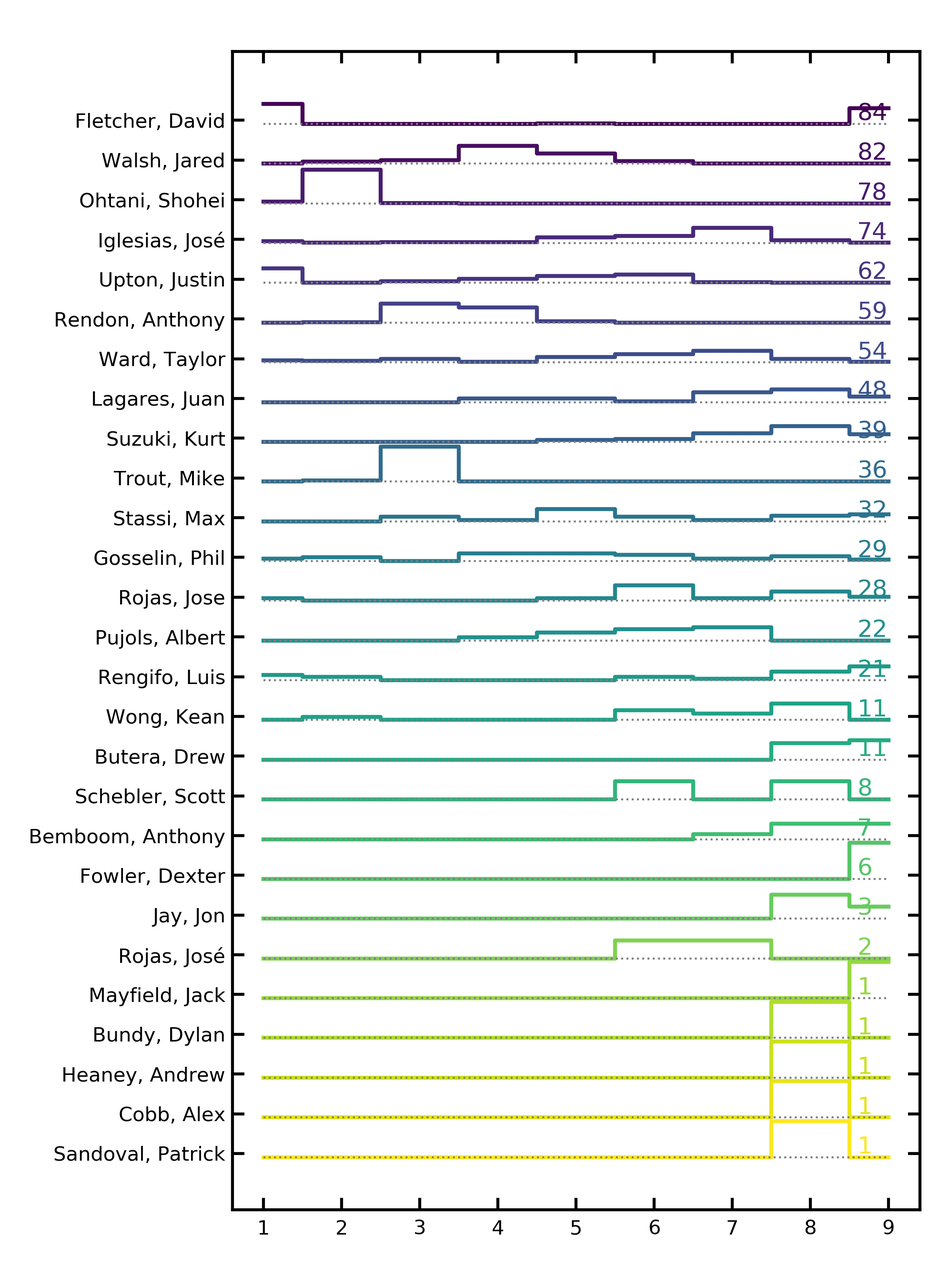
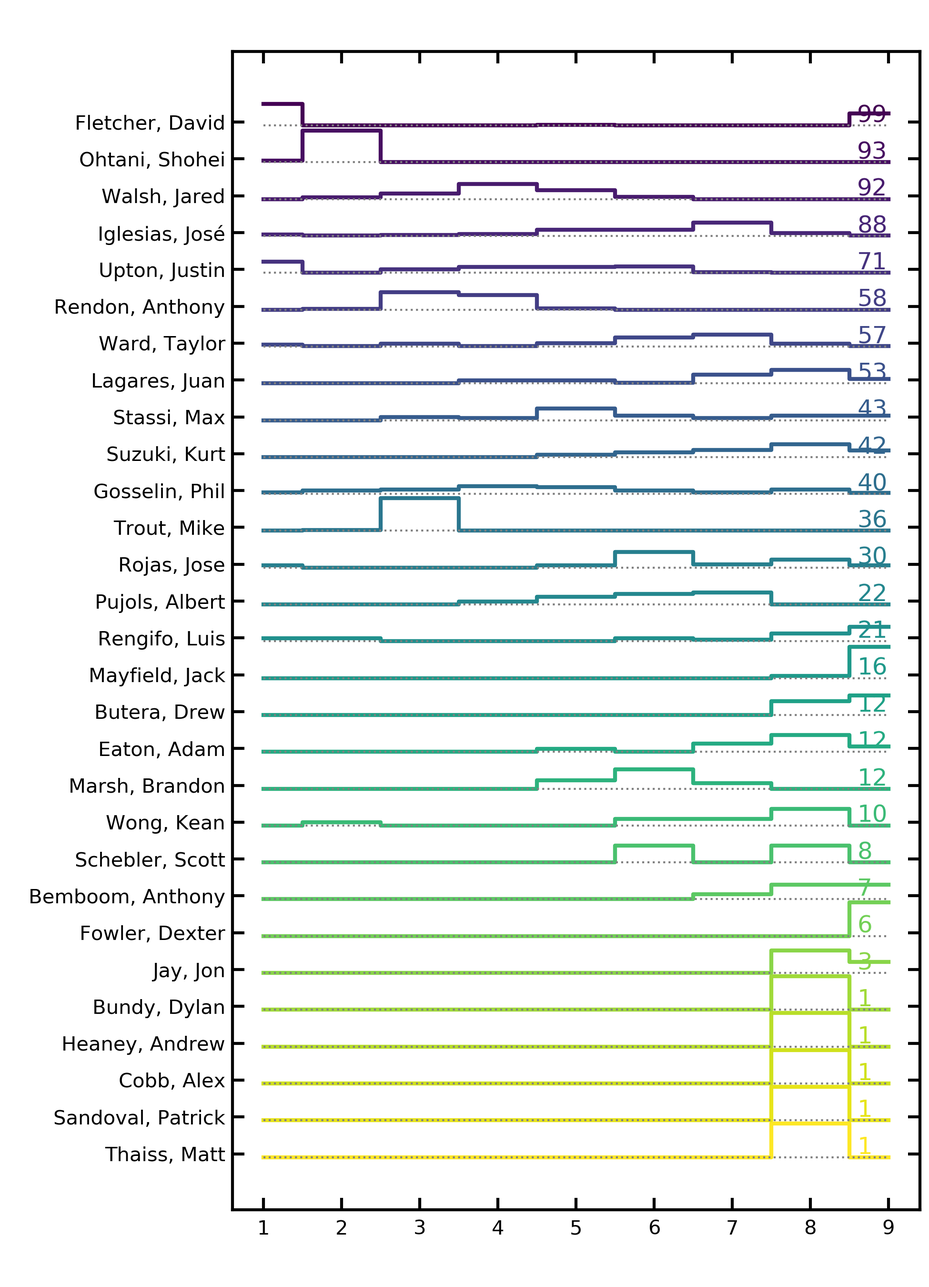
upgrades for the trade deadline

Changed region(s): [[0.2769, 0.0622, 0.9846, 0.8711], [0.0308, 0.0933, 0.2462, 0.9022]]

diff --git a/Lineups/lineup2021.html b/Lineups/lineup2021.html
@@ -23,39 +23,39 @@ document.querySelectorAll('th').forEach(th => th.addEventListener('click', (() =
 
   <body>
   <h2>Batting Order Breakdown</h2>
-  <p>For each team, what is the "typical" 2021 lineup?</p>
+  <p>For each team, what is the "typical" 2021 lineup?</p><p style="color:#d63838">Red colors mean the player is not on the team anymore.</p><p style="color:#696969">Grey colors mean the player has appeared in fewer than 25 games.</p>
 <table id="customers">
 <tr><th>Team</th><th>1st</th><th>2nd</th><th>3rd</th><th>4th</th><th>5th</th><th>6th</th><th>7th</th><th>8th</th><th>9th</th><th>Similarity</th><th>First Appeared</th></tr>
-<tr><td><a href="figures/2021LAAorder.png">LAA</a></td><td>Fletcher, David</td><td>Ohtani, Shohei</td><td>Trout, Mike</td><td>Rendon, Anthony</td><td>Walsh, Jared</td><td>Upton, Justin</td><td>Iglesias, José</td><td>Suzuki, Kurt</td><td>Fowler, Dexter</td><td>2.45</td><td>3</td></tr>
-<tr><td><a href="figures/2021HOUorder.png">HOU</a></td><td>Altuve, Jose</td><td>Brantley, Michael</td><td>Bregman, Alex</td><td>Alvarez, Yordan</td><td>Gurriel, Yuli</td><td>Correa, Carlos</td><td>Tucker, Kyle</td><td>Straw, Myles</td><td>Maldonado, Martín</td><td>3.86</td><td>8</td></tr>
-<tr><td><a href="figures/2021OAKorder.png">OAK</a></td><td>Canha, Mark</td><td>Laureano, Ramón</td><td>Olson, Matt</td><td>Murphy, Sean</td><td>Chapman, Matt</td><td>Lowrie, Jed</td><td>Piscotty, Stephen</td><td>Andrus, Elvis</td><td>Kemp, Tony</td><td>2.32</td><td>34</td></tr>
-<tr><td><a href="figures/2021TORorder.png">TOR</a></td><td>Semien, Marcus</td><td>Bichette, Bo</td><td>Guerrero Jr., Vladimir</td><td>Hernández, Teoscar</td><td>Grichuk, Randal</td><td>Biggio, Cavan</td><td>Gurriel Jr., Lourdes</td><td>Panik, Joe</td><td>McGuire, Reese</td><td>4.23</td><td>29</td></tr>
-<tr><td><a href="figures/2021ATLorder.png">ATL</a></td><td>Acuña Jr., Ronald</td><td>Freeman, Freddie</td><td>Ozuna, Marcell</td><td>Albies, Ozzie</td><td>Riley, Austin</td><td>Swanson, Dansby</td><td>Contreras, William</td><td>Heredia, Guillermo</td><td>Morton, Charlie</td><td>3.34</td><td>44</td></tr>
-<tr><td><a href="figures/2021MILorder.png">MIL</a></td><td>Wong, Kolten</td><td>Vogelbach, Daniel</td><td>Yelich, Christian</td><td>García, Avisaíl</td><td>Narváez, Omar</td><td>Adames, Willy</td><td>Urías, Luis</td><td>Bradley Jr., Jackie</td><td>Peralta, Freddy</td><td>1.66</td><td>76</td></tr>
-<tr><td><a href="figures/2021STLorder.png">STL</a></td><td>Edman, Tommy</td><td>Carlson, Dylan</td><td>Goldschmidt, Paul</td><td>Arenado, Nolan</td><td>Molina, Yadier</td><td>O'Neill, Tyler</td><td>Sosa, Edmundo</td><td>Williams, Justin</td><td>Wainwright, Adam</td><td>3.23</td><td>54</td></tr>
-<tr><td><a href="figures/2021CHCorder.png">CHC</a></td><td>Pederson, Joc</td><td>Bryant, Kris</td><td>Báez, Javier</td><td>Rizzo, Anthony</td><td>Contreras, Willson</td><td>Happ, Ian</td><td>Heyward, Jason</td><td>Alcántara, Sergio</td><td>Hendricks, Kyle</td><td>1.99</td><td>65</td></tr>
-<tr><td><a href="figures/2021ARIorder.png">ARI</a></td><td>Rojas, Josh</td><td>Marte, Ketel</td><td>Escobar, Eduardo</td><td>Peralta, David</td><td>Smith, Pavin</td><td>Reddick, Josh</td><td>Ahmed, Nick</td><td>Vogt, Stephen</td><td>Kelly, Merrill</td><td>1.89</td><td>59</td></tr>
-<tr><td><a href="figures/2021LADorder.png">LAD</a></td><td>Betts, Mookie</td><td>Seager, Corey</td><td>Turner, Justin</td><td>Bellinger, Cody</td><td>Muncy, Max</td><td>Taylor, Chris</td><td>Lux, Gavin</td><td>Barnes, Austin</td><td>Kershaw, Clayton</td><td>2.68</td><td>1</td></tr>
-<tr><td><a href="figures/2021SForder.png">SF</a></td><td>Wade Jr, LaMonte</td><td>Yastrzemski, Mike</td><td>Posey, Buster</td><td>Belt, Brandon</td><td>Crawford, Brandon</td><td>Flores, Wilmer</td><td>Duggar, Steven</td><td>Vosler, Jason</td><td>Cueto, Johnny</td><td>1.38</td><td>71</td></tr>
-<tr><td><a href="figures/2021CLEorder.png">CLE</a></td><td>Hernandez, Cesar</td><td>Rosario, Amed</td><td>Ramírez, José</td><td>Rosario, Eddie</td><td>Reyes, Franmil</td><td>Naylor, Josh</td><td>Bauers, Jake</td><td>Hedges, Austin</td><td>Giménez, Andrés</td><td>2.94</td><td>33</td></tr>
-<tr><td><a href="figures/2021SEAorder.png">SEA</a></td><td>Crawford, J.P.</td><td>Haniger, Mitch</td><td>Seager, Kyle</td><td>France, Ty</td><td>Fraley, Jake</td><td>Moore, Dylan</td><td>Bauers, Jake</td><td>Murphy, Tom</td><td>Trammell, Taylor</td><td>2.23</td><td>66</td></tr>
-<tr><td><a href="figures/2021MIAorder.png">MIA</a></td><td>Chisholm Jr., Jazz</td><td>Marte, Starling</td><td>Aguilar, Jesús</td><td>Duvall, Adam</td><td>Rojas, Miguel</td><td>Sánchez, Jesús</td><td>Alfaro, Jorge</td><td>Berti, Jon</td><td>Rogers, Trevor</td><td>2.15</td><td>74</td></tr>
-<tr><td><a href="figures/2021NYMorder.png">NYM</a></td><td>McNeil, Jeff</td><td>Lindor, Francisco</td><td>Conforto, Michael</td><td>Alonso, Pete</td><td>Smith, Dominic</td><td>Pillar, Kevin</td><td>Villar, Jonathan</td><td>McCann, James</td><td>Walker, Taijuan</td><td>2.46</td><td>28</td></tr>
-<tr><td><a href="figures/2021WSHorder.png">WSH</a></td><td>Turner, Trea</td><td>Harrison, Josh</td><td>Soto, Juan</td><td>Bell, Josh</td><td>Schwarber, Kyle</td><td>Castro, Starlin</td><td>Avila, Alex</td><td>Robles, Victor</td><td>Ross, Joe</td><td>2.1</td><td>56</td></tr>
-<tr><td><a href="figures/2021BALorder.png">BAL</a></td><td>Mullins, Cedric</td><td>Mancini, Trey</td><td>Santander, Anthony</td><td>Mountcastle, Ryan</td><td>Hays, Austin</td><td>Galvis, Freddy</td><td>Franco, Maikel</td><td>Severino, Pedro</td><td>Valaika, Pat</td><td>2.45</td><td>62</td></tr>
-<tr><td><a href="figures/2021SDorder.png">SD</a></td><td>Pham, Tommy</td><td>Machado, Manny</td><td>Cronenworth, Jake</td><td>Tatis Jr., Fernando</td><td>Hosmer, Eric</td><td>Myers, Wil</td><td>Profar, Jurickson</td><td>Caratini, Victor</td><td>Paddack, Chris</td><td>2.22</td><td>56</td></tr>
-<tr><td><a href="figures/2021PHIorder.png">PHI</a></td><td>McCutchen, Andrew</td><td>Hoskins, Rhys</td><td>Harper, Bryce</td><td>Realmuto, J.T.</td><td>Bohm, Alec</td><td>Gregorius, Didi</td><td>Segura, Jean</td><td>Quinn, Roman</td><td>Wheeler, Zack</td><td>1.99</td><td>2</td></tr>
-<tr><td><a href="figures/2021PITorder.png">PIT</a></td><td>Frazier, Adam</td><td>Hayes, Ke'Bryan</td><td>Reynolds, Bryan</td><td>Moran, Colin</td><td>Stallings, Jacob</td><td>Polanco, Gregory</td><td>Newman, Kevin</td><td>Tom, Ka'ai</td><td>Kuhl, Chad</td><td>2.76</td><td>69</td></tr>
-<tr><td><a href="figures/2021TEXorder.png">TEX</a></td><td>Kiner-Falefa, Isiah</td><td>Solak, Nick</td><td>Lowe, Nate</td><td>Gallo, Joey</td><td>García, Adolis</td><td>Davis, Khris</td><td>Dahl, David</td><td>Culberson, Charlie</td><td>Trevino, Jose</td><td>1.94</td><td>42</td></tr>
-<tr><td><a href="figures/2021TBorder.png">TB</a></td><td>Arozarena, Randy</td><td>Margot, Manuel</td><td>Meadows, Austin</td><td>Díaz, Yandy</td><td>Brosseau, Mike</td><td>Wendle, Joey</td><td>Zunino, Mike</td><td>Adames, Willy</td><td>Phillips, Brett</td><td>1.4</td><td>34</td></tr>
-<tr><td><a href="figures/2021BOSorder.png">BOS</a></td><td>Hernández, Enrique</td><td>Verdugo, Alex</td><td>Martinez, J.D.</td><td>Bogaerts, Xander</td><td>Devers, Rafael</td><td>Renfroe, Hunter</td><td>Gonzalez, Marwin</td><td>Vázquez, Christian</td><td>Dalbec, Bobby</td><td>4.25</td><td>1</td></tr>
-<tr><td><a href="figures/2021CINorder.png">CIN</a></td><td>India, Jonathan</td><td>Winker, Jesse</td><td>Castellanos, Nick</td><td>Votto, Joey</td><td>Naquin, Tyler</td><td>Suárez, Eugenio</td><td>Barnhart, Tucker</td><td>Farmer, Kyle</td><td>Mahle, Tyler</td><td>2.01</td><td>86</td></tr>
-<tr><td><a href="figures/2021COLorder.png">COL</a></td><td>Tapia, Raimel</td><td>Daza, Yonathan</td><td>Story, Trevor</td><td>Blackmon, Charlie</td><td>Cron, C.J.</td><td>Rodgers, Brendan</td><td>Fuentes, Joshua</td><td>Nuñez, Dom</td><td>González, Chi Chi</td><td>2.33</td><td>75</td></tr>
-<tr><td><a href="figures/2021KCorder.png">KC</a></td><td>Merrifield, Whit</td><td>Santana, Carlos</td><td>Benintendi, Andrew</td><td>Perez, Salvador</td><td>Soler, Jorge</td><td>Dozier, Hunter</td><td>Gutierrez, Kelvin</td><td>Taylor, Michael A.</td><td>Lopez, Nicky</td><td>3.81</td><td>61</td></tr>
-<tr><td><a href="figures/2021DETorder.png">DET</a></td><td>Grossman, Robbie</td><td>Schoop, Jonathan</td><td>Candelario, Jeimer</td><td>Cabrera, Miguel</td><td>Haase, Eric</td><td>Cameron, Daz</td><td>Goodrum, Niko</td><td>Castro, Willi</td><td>Rogers, Jake</td><td>1.98</td><td>68</td></tr>
-<tr><td><a href="figures/2021MINorder.png">MIN</a></td><td>Arraez, Luis</td><td>Donaldson, Josh</td><td>Polanco, Jorge</td><td>Cruz, Nelson</td><td>Larnach, Trevor</td><td>Sanó, Miguel</td><td>Kepler, Max</td><td>Astudillo, Willians</td><td>Simmons, Andrelton</td><td>2.06</td><td>39</td></tr>
-<tr><td><a href="figures/2021CWSorder.png">CWS</a></td><td>Anderson, Tim</td><td>Eaton, Adam</td><td>Moncada, Yoán</td><td>Abreu, José</td><td>Mercedes, Yermín</td><td>Grandal, Yasmani</td><td>Vaughn, Andrew</td><td>García, Leury</td><td>Madrigal, Nick</td><td>2.88</td><td>34</td></tr>
-<tr><td><a href="figures/2021NYYorder.png">NYY</a></td><td>LeMahieu, DJ</td><td>Stanton, Giancarlo</td><td>Judge, Aaron</td><td>Urshela, Gio</td><td>Torres, Gleyber</td><td>Odor, Rougned</td><td>Andújar, Miguel</td><td>Higashioka, Kyle</td><td>Gardner, Brett</td><td>2.64</td><td>55</td></tr>
+<tr><td><a href="figures/2021LAAorder.png">LAA</a></td><td>Fletcher, David</td><td>Ohtani, Shohei</td><td>Trout, Mike</td><td>Rendon, Anthony</td><td>Walsh, Jared</td><td>Upton, Justin</td><td>Iglesias, José</td><td>Lagares, Juan</td><td>Stassi, Max</td><td><a href="figures/2021LAAsimilarity.png">2.31</a></td><td>4</td></tr>
+<tr><td><a href="figures/2021HOUorder.png">HOU</a></td><td>Altuve, Jose</td><td>Brantley, Michael</td><td>Bregman, Alex</td><td>Alvarez, Yordan</td><td>Gurriel, Yuli</td><td>Correa, Carlos</td><td>Tucker, Kyle</td><td style="color:#d63838">Straw, Myles</td><td>Maldonado, Martín</td><td><a href="figures/2021HOUsimilarity.png">3.73</a></td><td>8</td></tr>
+<tr><td><a href="figures/2021OAKorder.png">OAK</a></td><td>Canha, Mark</td><td>Lowrie, Jed</td><td>Olson, Matt</td><td>Laureano, Ramón</td><td>Chapman, Matt</td><td>Murphy, Sean</td><td>Piscotty, Stephen</td><td>Andrus, Elvis</td><td>Kemp, Tony</td><td><a href="figures/2021OAKsimilarity.png">2.26</a></td><td>23</td></tr>
+<tr><td><a href="figures/2021TORorder.png">TOR</a></td><td>Semien, Marcus</td><td>Bichette, Bo</td><td>Guerrero Jr., Vladimir</td><td>Hernández, Teoscar</td><td>Grichuk, Randal</td><td>Biggio, Cavan</td><td>Gurriel Jr., Lourdes</td><td>Espinal, Santiago</td><td>McGuire, Reese</td><td><a href="figures/2021TORsimilarity.png">3.66</a></td><td>70</td></tr>
+<tr><td><a href="figures/2021ATLorder.png">ATL</a></td><td>Acuña Jr., Ronald</td><td>Freeman, Freddie</td><td>Albies, Ozzie</td><td>Riley, Austin</td><td>Swanson, Dansby</td><td>Almonte, Abraham</td><td>Contreras, William</td><td>Heredia, Guillermo</td><td style="color:#696969">Morton, Charlie</td><td><a href="figures/2021ATLsimilarity.png">3.01</a></td><td>51</td></tr>
+<tr><td><a href="figures/2021MILorder.png">MIL</a></td><td>Wong, Kolten</td><td>Vogelbach, Daniel</td><td>Yelich, Christian</td><td>García, Avisaíl</td><td>Narváez, Omar</td><td>Adames, Willy*</td><td>Urías, Luis</td><td>Bradley Jr., Jackie</td><td style="color:#696969">Peralta, Freddy</td><td><a href="figures/2021MILsimilarity.png">1.7</a></td><td>74</td></tr>
+<tr><td><a href="figures/2021STLorder.png">STL</a></td><td>Edman, Tommy</td><td>Carlson, Dylan</td><td>Goldschmidt, Paul</td><td>Arenado, Nolan</td><td>Molina, Yadier</td><td>O'Neill, Tyler</td><td>Bader, Harrison</td><td>Sosa, Edmundo</td><td style="color:#696969">Kim, Kwang Hyun</td><td><a href="figures/2021STLsimilarity.png">2.47</a></td><td>41</td></tr>
+<tr><td><a href="figures/2021CHCorder.png">CHC</a></td><td style="color:#d63838">Pederson, Joc</td><td>Bryant, Kris</td><td style="color:#d63838">Báez, Javier</td><td style="color:#d63838">Rizzo, Anthony</td><td>Contreras, Willson</td><td>Ortega, Rafael</td><td>Heyward, Jason</td><td>Sogard, Eric</td><td style="color:#696969">Davies, Zach</td><td><a href="figures/2021CHCsimilarity.png">1.92</a></td><td>75</td></tr>
+<tr><td><a href="figures/2021ARIorder.png">ARI</a></td><td>Rojas, Josh</td><td>Marte, Ketel</td><td style="color:#d63838">Escobar, Eduardo</td><td>Peralta, David</td><td>Smith, Pavin</td><td>Reddick, Josh</td><td>Ahmed, Nick</td><td style="color:#d63838">Vogt, Stephen</td><td style="color:#696969">Kelly, Merrill</td><td><a href="figures/2021ARIsimilarity.png">1.91</a></td><td>60</td></tr>
+<tr><td><a href="figures/2021LADorder.png">LAD</a></td><td>Betts, Mookie</td><td>Muncy, Max</td><td>Turner, Justin</td><td>Bellinger, Cody</td><td>Smith, Will</td><td>Taylor, Chris</td><td>Lux, Gavin</td><td>Pollock, AJ</td><td style="color:#696969">Buehler, Walker</td><td><a href="figures/2021LADsimilarity.png">2.49</a></td><td>60</td></tr>
+<tr><td><a href="figures/2021SForder.png">SF</a></td><td>Wade Jr, LaMonte</td><td>Yastrzemski, Mike</td><td>Posey, Buster</td><td>Belt, Brandon</td><td>Crawford, Brandon</td><td>Solano, Donovan</td><td>Duggar, Steven</td><td style="color:#696969">Vosler, Jason</td><td style="color:#696969">Wood, Alex</td><td><a href="figures/2021SFsimilarity.png">1.34</a></td><td>71</td></tr>
+<tr><td><a href="figures/2021CLEorder.png">CLE</a></td><td style="color:#d63838">Hernandez, Cesar</td><td>Rosario, Amed</td><td>Ramírez, José</td><td>Rosario, Eddie</td><td>Bradley, Bobby</td><td>Ramirez, Harold</td><td>Naylor, Josh</td><td>Zimmer, Bradley</td><td>Hedges, Austin</td><td><a href="figures/2021CLEsimilarity.png">2.95</a></td><td>72</td></tr>
+<tr><td><a href="figures/2021SEAorder.png">SEA</a></td><td>Crawford, J.P.</td><td>Haniger, Mitch</td><td>Seager, Kyle</td><td>France, Ty</td><td>Fraley, Jake</td><td>Murphy, Tom</td><td>Long Jr., Shed</td><td>Moore, Dylan</td><td>Trammell, Taylor</td><td><a href="figures/2021SEAsimilarity.png">2.06</a></td><td>87</td></tr>
+<tr><td><a href="figures/2021MIAorder.png">MIA</a></td><td>Chisholm Jr., Jazz</td><td style="color:#d63838">Marte, Starling</td><td>Aguilar, Jesús</td><td style="color:#d63838">Duvall, Adam</td><td>Rojas, Miguel</td><td style="color:#696969">Sánchez, Jesús</td><td>Alfaro, Jorge</td><td>Berti, Jon</td><td style="color:#696969">Rogers, Trevor</td><td><a href="figures/2021MIAsimilarity.png">2.06</a></td><td>73</td></tr>
+<tr><td><a href="figures/2021NYMorder.png">NYM</a></td><td>Nimmo, Brandon</td><td>Lindor, Francisco</td><td>Smith, Dominic</td><td>Alonso, Pete</td><td>McNeil, Jeff</td><td>Conforto, Michael</td><td>Villar, Jonathan</td><td>McCann, James</td><td style="color:#696969">Stroman, Marcus</td><td><a href="figures/2021NYMsimilarity.png">2.19</a></td><td>88</td></tr>
+<tr><td><a href="figures/2021WSHorder.png">WSH</a></td><td>Schwarber, Kyle</td><td>Turner, Trea</td><td>Soto, Juan</td><td>Bell, Josh</td><td>Harrison, Josh</td><td>Castro, Starlin</td><td style="color:#696969">Avila, Alex</td><td>Robles, Victor</td><td style="color:#696969">Ross, Joe</td><td><a href="figures/2021WSHsimilarity.png">2.01</a></td><td>68</td></tr>
+<tr><td><a href="figures/2021BALorder.png">BAL</a></td><td>Mullins, Cedric</td><td>Hays, Austin</td><td>Mancini, Trey</td><td>Mountcastle, Ryan</td><td>Severino, Pedro</td><td>Galvis, Freddy</td><td>Franco, Maikel</td><td>Valaika, Pat</td><td style="color:#696969">McKenna, Ryan</td><td><a href="figures/2021BALsimilarity.png">2.45</a></td><td>35</td></tr>
+<tr><td><a href="figures/2021SDorder.png">SD</a></td><td>Grisham, Trent</td><td>Tatis Jr., Fernando</td><td>Cronenworth, Jake</td><td>Machado, Manny</td><td>Hosmer, Eric</td><td>Myers, Wil</td><td>Profar, Jurickson</td><td>Caratini, Victor</td><td style="color:#696969">Weathers, Ryan</td><td><a href="figures/2021SDsimilarity.png">2.16</a></td><td>88</td></tr>
+<tr><td><a href="figures/2021PHIorder.png">PHI</a></td><td>McCutchen, Andrew</td><td>Hoskins, Rhys</td><td>Harper, Bryce</td><td>Realmuto, J.T.</td><td>Bohm, Alec</td><td>Gregorius, Didi</td><td>Segura, Jean</td><td style="color:#696969">Quinn, Roman</td><td style="color:#696969">Wheeler, Zack</td><td><a href="figures/2021PHIsimilarity.png">1.91</a></td><td>2</td></tr>
+<tr><td><a href="figures/2021PITorder.png">PIT</a></td><td style="color:#d63838">Frazier, Adam</td><td>Hayes, Ke'Bryan</td><td>Reynolds, Bryan</td><td>Moran, Colin</td><td>Stallings, Jacob</td><td>Polanco, Gregory</td><td>Newman, Kevin</td><td>Tom, Ka'ai</td><td style="color:#696969">Kuhl, Chad</td><td><a href="figures/2021PITsimilarity.png">2.75</a></td><td>68</td></tr>
+<tr><td><a href="figures/2021TEXorder.png">TEX</a></td><td>Kiner-Falefa, Isiah</td><td>Solak, Nick</td><td>Lowe, Nathaniel</td><td style="color:#d63838">Gallo, Joey</td><td>García, Adolis</td><td style="color:#696969">Davis, Khris</td><td>Dahl, David</td><td>Culberson, Charlie</td><td>Trevino, Jose</td><td><a href="figures/2021TEXsimilarity.png">1.89</a></td><td>42</td></tr>
+<tr><td><a href="figures/2021TBorder.png">TB</a></td><td>Arozarena, Randy</td><td>Margot, Manuel</td><td>Meadows, Austin</td><td>Díaz, Yandy</td><td>Brosseau, Mike</td><td>Wendle, Joey</td><td>Zunino, Mike</td><td style="color:#d63838">Adames, Willy</td><td>Phillips, Brett</td><td><a href="figures/2021TBsimilarity.png">1.36</a></td><td>33</td></tr>
+<tr><td><a href="figures/2021BOSorder.png">BOS</a></td><td>Hernández, Enrique</td><td>Verdugo, Alex</td><td>Martinez, J.D.</td><td>Bogaerts, Xander</td><td>Devers, Rafael</td><td>Renfroe, Hunter</td><td>Gonzalez, Marwin</td><td>Vázquez, Christian</td><td>Dalbec, Bobby</td><td><a href="figures/2021BOSsimilarity.png">3.85</a></td><td>1</td></tr>
+<tr><td><a href="figures/2021CINorder.png">CIN</a></td><td>India, Jonathan</td><td>Winker, Jesse</td><td>Castellanos, Nick</td><td>Votto, Joey</td><td>Naquin, Tyler</td><td>Suárez, Eugenio</td><td>Barnhart, Tucker</td><td>Farmer, Kyle</td><td style="color:#696969">Mahle, Tyler</td><td><a href="figures/2021CINsimilarity.png">2.15</a></td><td>87</td></tr>
+<tr><td><a href="figures/2021COLorder.png">COL</a></td><td>Tapia, Raimel</td><td>Daza, Yonathan</td><td>Story, Trevor</td><td>Blackmon, Charlie</td><td>Cron, C.J.</td><td>Rodgers, Brendan</td><td>Fuentes, Joshua</td><td>Nuñez, Dom</td><td style="color:#696969">González, Chi Chi</td><td><a href="figures/2021COLsimilarity.png">2.28</a></td><td>73</td></tr>
+<tr><td><a href="figures/2021KCorder.png">KC</a></td><td>Merrifield, Whit</td><td>Santana, Carlos</td><td>Perez, Salvador</td><td style="color:#d63838">Soler, Jorge</td><td>O'Hearn, Ryan</td><td>Dozier, Hunter</td><td>Benintendi, Andrew</td><td>Taylor, Michael A.</td><td>Lopez, Nicky</td><td><a href="figures/2021KCsimilarity.png">3.74</a></td><td>18</td></tr>
+<tr><td><a href="figures/2021DETorder.png">DET</a></td><td>Grossman, Robbie</td><td>Schoop, Jonathan</td><td>Candelario, Jeimer</td><td>Cabrera, Miguel</td><td>Haase, Eric</td><td style="color:#696969">Cameron, Daz</td><td>Goodrum, Niko</td><td>Castro, Willi</td><td>Rogers, Jake</td><td><a href="figures/2021DETsimilarity.png">1.95</a></td><td>67</td></tr>
+<tr><td><a href="figures/2021MINorder.png">MIN</a></td><td>Arraez, Luis</td><td>Donaldson, Josh</td><td>Larnach, Trevor</td><td style="color:#d63838">Cruz, Nelson</td><td>Kirilloff, Alex</td><td>Polanco, Jorge</td><td>Kepler, Max</td><td>Jeffers, Ryan</td><td>Simmons, Andrelton</td><td><a href="figures/2021MINsimilarity.png">1.95</a></td><td>89</td></tr>
+<tr><td><a href="figures/2021CWSorder.png">CWS</a></td><td>Anderson, Tim</td><td style="color:#d63838">Eaton, Adam</td><td>Moncada, Yoán</td><td>Abreu, José</td><td>Mercedes, Yermín</td><td>Grandal, Yasmani</td><td>Vaughn, Andrew</td><td>García, Leury</td><td>Madrigal, Nick</td><td><a href="figures/2021CWSsimilarity.png">2.55</a></td><td>33</td></tr>
+<tr><td><a href="figures/2021NYYorder.png">NYY</a></td><td>LeMahieu, DJ</td><td>Stanton, Giancarlo</td><td>Judge, Aaron</td><td>Urshela, Gio</td><td>Torres, Gleyber</td><td>Odor, Rougned</td><td>Andújar, Miguel</td><td>Higashioka, Kyle</td><td>Gardner, Brett</td><td><a href="figures/2021NYYsimilarity.png">2.42</a></td><td>54</td></tr>
 </table>
 </body>
 </html>

diff --git a/Lineups/lineup2021posttrade.html b/Lineups/lineup2021posttrade.html
@@ -1,0 +1,61 @@
+<!DOCTYPE html>
+<html>
+  <head>
+    <title>2021 Lineups</title>
+    <link rel="stylesheet" href="style.css" />
+    <meta charset="UTF-8">
+    <!--https://www.w3schools.com/css/css_table.asp-->
+<script>
+window.onload=function(){ 
+const getCellValue = (tr, idx) => tr.children[idx].innerText || tr.children[idx].textContent;
+const comparer = (idx, asc) => (a, b) => ((v1, v2) => 
+    v1 !== '' && v2 !== '' && !isNaN(v1) && !isNaN(v2) ? v1 - v2 : v1.toString().localeCompare(v2)
+    )(getCellValue(asc ? a : b, idx), getCellValue(asc ? b : a, idx));
+// do the work...
+document.querySelectorAll('th').forEach(th => th.addEventListener('click', (() => {
+    const table = th.closest('table');
+    Array.from(table.querySelectorAll('tr:nth-child(n+2)'))
+        .sort(comparer(Array.from(th.parentNode.children).indexOf(th), this.asc = !this.asc))
+        .forEach(tr => table.appendChild(tr) );
+})));
+}
+</script>  </head>
+
+  <body>
+  <h2>Batting Order Breakdown</h2>
+  <p>For each team, what is the "typical" 2021 lineup?</p><p style="color:#d63838">Red colors mean the player is not on the team anymore.</p><p style="color:#696969">Grey colors mean the player has appeared in fewer than 25 games.</p>
+<table id="customers">
+<tr><th>Team</th><th>1st</th><th>2nd</th><th>3rd</th><th>4th</th><th>5th</th><th>6th</th><th>7th</th><th>8th</th><th>9th</th><th>Similarity</th><th>First Appeared</th></tr>
+<tr><td><a href="figures/2021LAAorder.png">LAA</a></td><td>Fletcher, David</td><td>Ohtani, Shohei</td><td>Upton, Justin</td><td>Walsh, Jared</td><td>Walsh, Jared</td><td>Iglesias, José</td><td style="color:#696969">Marsh, Brandon</td><td>Stassi, Max</td><td>Eaton, Adam*</td><td><a href="figures/2021LAAsimilarity.png">2.31</a></td><td>98</td></tr>
+<tr><td><a href="figures/2021HOUorder.png">HOU</a></td><td>Altuve, Jose</td><td>Brantley, Michael</td><td>Gurriel, Yuli</td><td>Alvarez, Yordan</td><td>Correa, Carlos</td><td>Tucker, Kyle</td><td style="color:#d63838">Toro, Abraham</td><td style="color:#d63838">Straw, Myles</td><td>Maldonado, Martín</td><td><a href="figures/2021HOUsimilarity.png">3.73</a></td><td>101</td></tr>
+<tr><td><a href="figures/2021OAKorder.png">OAK</a></td><td>Canha, Mark</td><td>Marte, Starling*</td><td>Olson, Matt</td><td>Laureano, Ramón</td><td>Lowrie, Jed</td><td>Chapman, Matt</td><td>Murphy, Sean</td><td>Andrus, Elvis</td><td>Kemp, Tony</td><td><a href="figures/2021OAKsimilarity.png">2.26</a></td><td>105</td></tr>
+<tr><td><a href="figures/2021TORorder.png">TOR</a></td><td>Springer, George</td><td>Guerrero Jr., Vladimir</td><td>Semien, Marcus</td><td>Bichette, Bo</td><td>Hernández, Teoscar</td><td>Gurriel Jr., Lourdes</td><td>Grichuk, Randal</td><td>Espinal, Santiago</td><td>McGuire, Reese</td><td><a href="figures/2021TORsimilarity.png">3.66</a></td><td>97</td></tr>
+<tr><td><a href="figures/2021ATLorder.png">ATL</a></td><td>Pederson, Joc*</td><td>Albies, Ozzie</td><td>Freeman, Freddie</td><td>Riley, Austin</td><td>Swanson, Dansby</td><td>Almonte, Abraham</td><td>Vogt, Stephen*</td><td>Heredia, Guillermo</td><td style="color:#696969">Smyly, Drew</td><td><a href="figures/2021ATLsimilarity.png">3.01</a></td><td>103</td></tr>
+<tr><td><a href="figures/2021MILorder.png">MIL</a></td><td>Wong, Kolten</td><td>Adames, Willy*</td><td>Yelich, Christian</td><td>García, Avisaíl</td><td>Taylor, Tyrone</td><td>Urías, Luis</td><td>Tellez, Rowdy*</td><td>Piña, Manny</td><td style="color:#696969">Burnes, Corbin</td><td><a href="figures/2021MILsimilarity.png">1.7</a></td><td>99</td></tr>
+<tr><td><a href="figures/2021STLorder.png">STL</a></td><td>Carlson, Dylan</td><td>Goldschmidt, Paul</td><td>Arenado, Nolan</td><td>O'Neill, Tyler</td><td>DeJong, Paul</td><td>Edman, Tommy</td><td>Bader, Harrison</td><td>Knizner, Andrew</td><td style="color:#696969">Oviedo, Johan</td><td><a href="figures/2021STLsimilarity.png">2.47</a></td><td>100</td></tr>
+<tr><td><a href="figures/2021CHCorder.png">CHC</a></td><td>Contreras, Willson</td><td>Bryant, Kris</td><td style="color:#d63838">Rizzo, Anthony</td><td style="color:#d63838">Báez, Javier</td><td>Wisdom, Patrick</td><td>Marisnick, Jake</td><td>Bote, David</td><td>Hoerner, Nico</td><td style="color:#696969">Williams, Trevor</td><td><a href="figures/2021CHCsimilarity.png">1.92</a></td><td>100</td></tr>
+<tr><td><a href="figures/2021ARIorder.png">ARI</a></td><td>VanMeter, Josh</td><td style="color:#696969">Calhoun, Kole</td><td style="color:#d63838">Escobar, Eduardo</td><td>Walker, Christian</td><td>Peralta, David</td><td>Smith, Pavin</td><td>Ahmed, Nick</td><td>Varsho, Daulton</td><td style="color:#696969">Kelly, Merrill</td><td><a href="figures/2021ARIsimilarity.png">1.91</a></td><td>100</td></tr>
+<tr><td><a href="figures/2021LADorder.png">LAD</a></td><td>Taylor, Chris</td><td>Muncy, Max</td><td>Turner, Justin</td><td>Smith, Will</td><td>Bellinger, Cody</td><td>Pollock, AJ</td><td>Beaty, Matt</td><td>McKinney, Billy*</td><td style="color:#696969">Buehler, Walker</td><td><a href="figures/2021LADsimilarity.png">2.49</a></td><td>103</td></tr>
+<tr><td><a href="figures/2021SForder.png">SF</a></td><td>Wade Jr, LaMonte</td><td>Yastrzemski, Mike</td><td>Posey, Buster</td><td>Dickerson, Alex</td><td>Flores, Wilmer</td><td style="color:#696969">Vosler, Jason</td><td style="color:#696969">Estrada, Thairo</td><td>Duggar, Steven</td><td style="color:#696969">Gausman, Kevin</td><td><a href="figures/2021SFsimilarity.png">1.34</a></td><td>98</td></tr>
+<tr><td><a href="figures/2021CLEorder.png">CLE</a></td><td style="color:#d63838">Hernandez, Cesar</td><td>Rosario, Amed</td><td>Ramírez, José</td><td>Reyes, Franmil</td><td>Bradley, Bobby</td><td>Ramirez, Harold</td><td style="color:#696969">Johnson, Daniel</td><td>Hedges, Austin</td><td>Zimmer, Bradley</td><td><a href="figures/2021CLEsimilarity.png">2.95</a></td><td>96</td></tr>
+<tr><td><a href="figures/2021SEAorder.png">SEA</a></td><td>Crawford, J.P.</td><td>Haniger, Mitch</td><td>Seager, Kyle</td><td>France, Ty</td><td style="color:#696969">Raleigh, Cal</td><td>Torrens, Luis</td><td>Kelenic, Jarred</td><td>Moore, Dylan</td><td>Long Jr., Shed</td><td><a href="figures/2021SEAsimilarity.png">2.06</a></td><td>102</td></tr>
+<tr><td><a href="figures/2021MIAorder.png">MIA</a></td><td>Rojas, Miguel</td><td style="color:#d63838">Marte, Starling</td><td>Aguilar, Jesús</td><td style="color:#d63838">Duvall, Adam</td><td>Anderson, Brian</td><td>Alfaro, Jorge</td><td style="color:#696969">Brinson, Lewis</td><td>Díaz, Isan</td><td style="color:#696969">Garrett, Braxton</td><td><a href="figures/2021MIAsimilarity.png">2.06</a></td><td>99</td></tr>
+<tr><td><a href="figures/2021NYMorder.png">NYM</a></td><td>Nimmo, Brandon</td><td>Alonso, Pete</td><td>Smith, Dominic</td><td style="color:#696969">Davis, J.D.</td><td>McCann, James</td><td>Conforto, Michael</td><td>Villar, Jonathan</td><td style="color:#696969">Drury, Brandon</td><td style="color:#696969">Walker, Taijuan</td><td><a href="figures/2021NYMsimilarity.png">2.19</a></td><td>101</td></tr>
+<tr><td><a href="figures/2021WSHorder.png">WSH</a></td><td style="color:#696969">Escobar, Alcides</td><td>Turner, Trea</td><td>Soto, Juan</td><td>Bell, Josh</td><td>Harrison, Josh</td><td style="color:#696969">Parra, Gerardo</td><td style="color:#696969">Barrera, Tres</td><td>Robles, Victor</td><td style="color:#696969">Ross, Joe</td><td><a href="figures/2021WSHsimilarity.png">2.01</a></td><td>99</td></tr>
+<tr><td><a href="figures/2021BALorder.png">BAL</a></td><td>Mullins, Cedric</td><td>Hays, Austin</td><td>Mancini, Trey</td><td>Mountcastle, Ryan</td><td>Urías, Ramón</td><td>Severino, Pedro</td><td>Franco, Maikel</td><td style="color:#696969">McKenna, Ryan</td><td>Valaika, Pat</td><td><a href="figures/2021BALsimilarity.png">2.45</a></td><td>97</td></tr>
+<tr><td><a href="figures/2021SDorder.png">SD</a></td><td>Frazier, Adam*</td><td>Tatis Jr., Fernando</td><td>Cronenworth, Jake</td><td>Machado, Manny</td><td>Hosmer, Eric</td><td>Pham, Tommy</td><td>Grisham, Trent</td><td>Caratini, Victor</td><td style="color:#696969">Paddack, Chris</td><td><a href="figures/2021SDsimilarity.png">2.16</a></td><td>103</td></tr>
+<tr><td><a href="figures/2021PHIorder.png">PHI</a></td><td>Segura, Jean</td><td>Realmuto, J.T.</td><td>Harper, Bryce</td><td>McCutchen, Andrew</td><td>Hoskins, Rhys</td><td>Herrera, Odúbel</td><td>Bohm, Alec</td><td>Torreyes, Ronald</td><td style="color:#696969">Nola, Aaron</td><td><a href="figures/2021PHIsimilarity.png">1.91</a></td><td>98</td></tr>
+<tr><td><a href="figures/2021PITorder.png">PIT</a></td><td style="color:#d63838">Frazier, Adam</td><td>Hayes, Ke'Bryan</td><td>Reynolds, Bryan</td><td>Polanco, Gregory</td><td style="color:#696969">Nogowski, John</td><td>Gamel, Ben*</td><td>Newman, Kevin</td><td>Perez, Michael</td><td style="color:#696969">Crowe, Wil</td><td><a href="figures/2021PITsimilarity.png">2.75</a></td><td>98</td></tr>
+<tr><td><a href="figures/2021TEXorder.png">TEX</a></td><td>Kiner-Falefa, Isiah</td><td>Lowe, Nathaniel</td><td>García, Adolis</td><td style="color:#d63838">Gallo, Joey</td><td>Ibáñez, Andy</td><td>Dahl, David</td><td>Heim, Jonah</td><td>Holt, Brock</td><td>White, Eli</td><td><a href="figures/2021TEXsimilarity.png">1.89</a></td><td>101</td></tr>
+<tr><td><a href="figures/2021TBorder.png">TB</a></td><td>Arozarena, Randy</td><td>Choi, Ji-Man</td><td>Cruz, Nelson*</td><td>Meadows, Austin</td><td>Díaz, Yandy</td><td>Franco, Wander</td><td>Wendle, Joey</td><td>Mejía, Francisco</td><td>Phillips, Brett</td><td><a href="figures/2021TBsimilarity.png">1.36</a></td><td>100</td></tr>
+<tr><td><a href="figures/2021BOSorder.png">BOS</a></td><td>Hernández, Enrique</td><td style="color:#696969">Duran, Jarren</td><td>Martinez, J.D.</td><td>Devers, Rafael</td><td>Renfroe, Hunter</td><td>Verdugo, Alex</td><td>Vázquez, Christian</td><td>Cordero, Franchy</td><td style="color:#696969">Chavis, Michael</td><td><a href="figures/2021BOSsimilarity.png">3.85</a></td><td>101</td></tr>
+<tr><td><a href="figures/2021CINorder.png">CIN</a></td><td>India, Jonathan</td><td>Winker, Jesse</td><td>Farmer, Kyle</td><td>Votto, Joey</td><td>Naquin, Tyler</td><td>Suárez, Eugenio</td><td>Barnhart, Tucker</td><td style="color:#696969">Akiyama, Shogo</td><td style="color:#696969">Castillo, Luis</td><td><a href="figures/2021CINsimilarity.png">2.15</a></td><td>103</td></tr>
+<tr><td><a href="figures/2021COLorder.png">COL</a></td><td>Tapia, Raimel</td><td>Rodgers, Brendan</td><td>Story, Trevor</td><td>Blackmon, Charlie</td><td>Cron, C.J.</td><td>McMahon, Ryan</td><td>Díaz, Elias</td><td style="color:#696969">Joe, Connor</td><td>Hampson, Garrett</td><td><a href="figures/2021COLsimilarity.png">2.28</a></td><td>101</td></tr>
+<tr><td><a href="figures/2021KCorder.png">KC</a></td><td>Merrifield, Whit</td><td>Santana, Carlos</td><td>Perez, Salvador</td><td style="color:#d63838">Soler, Jorge</td><td>Benintendi, Andrew</td><td>O'Hearn, Ryan</td><td>Dozier, Hunter</td><td>Taylor, Michael A.</td><td>Lopez, Nicky</td><td><a href="figures/2021KCsimilarity.png">3.74</a></td><td>100</td></tr>
+<tr><td><a href="figures/2021DETorder.png">DET</a></td><td>Baddoo, Akil</td><td>Schoop, Jonathan</td><td>Grossman, Robbie</td><td>Cabrera, Miguel</td><td>Candelario, Jeimer</td><td>Haase, Eric</td><td>Castro, Harold</td><td>Castro, Willi</td><td style="color:#696969">Hill, Derek</td><td><a href="figures/2021DETsimilarity.png">1.95</a></td><td>106</td></tr>
+<tr><td><a href="figures/2021MINorder.png">MIN</a></td><td>Polanco, Jorge</td><td style="color:#696969">Rooker, Brent</td><td>Donaldson, Josh</td><td>Garver, Mitch</td><td>Kepler, Max</td><td>Sanó, Miguel</td><td>Astudillo, Willians</td><td style="color:#696969">Celestino, Gilberto</td><td>Simmons, Andrelton</td><td><a href="figures/2021MINsimilarity.png">1.95</a></td><td>102</td></tr>
+<tr><td><a href="figures/2021CWSorder.png">CWS</a></td><td>Anderson, Tim</td><td>Moncada, Yoán</td><td>Abreu, José</td><td style="color:#696969">Jiménez, Eloy</td><td style="color:#696969">Sheets, Gavin</td><td>Vaughn, Andrew</td><td>Goodwin, Brian</td><td>García, Leury</td><td>Collins, Zack</td><td><a href="figures/2021CWSsimilarity.png">2.55</a></td><td>101</td></tr>
+<tr><td><a href="figures/2021NYYorder.png">NYY</a></td><td>LeMahieu, DJ</td><td>Judge, Aaron</td><td>Sánchez, Gary</td><td>Stanton, Giancarlo</td><td>Torres, Gleyber</td><td>Odor, Rougned</td><td>Urshela, Gio</td><td style="color:#696969">LaMarre, Ryan</td><td style="color:#696969">Allen, Greg</td><td><a href="figures/2021NYYsimilarity.png">2.42</a></td><td>99</td></tr>
+</table>
+</body>
+</html>

diff --git a/Lineups/style.css b/Lineups/style.css
@@ -21,6 +21,12 @@
   background-color: #4255EB;
   color: white;
 }
+
+#traded {
+    text-color: #d63838;
+}
+
+
 </style>
 
 
